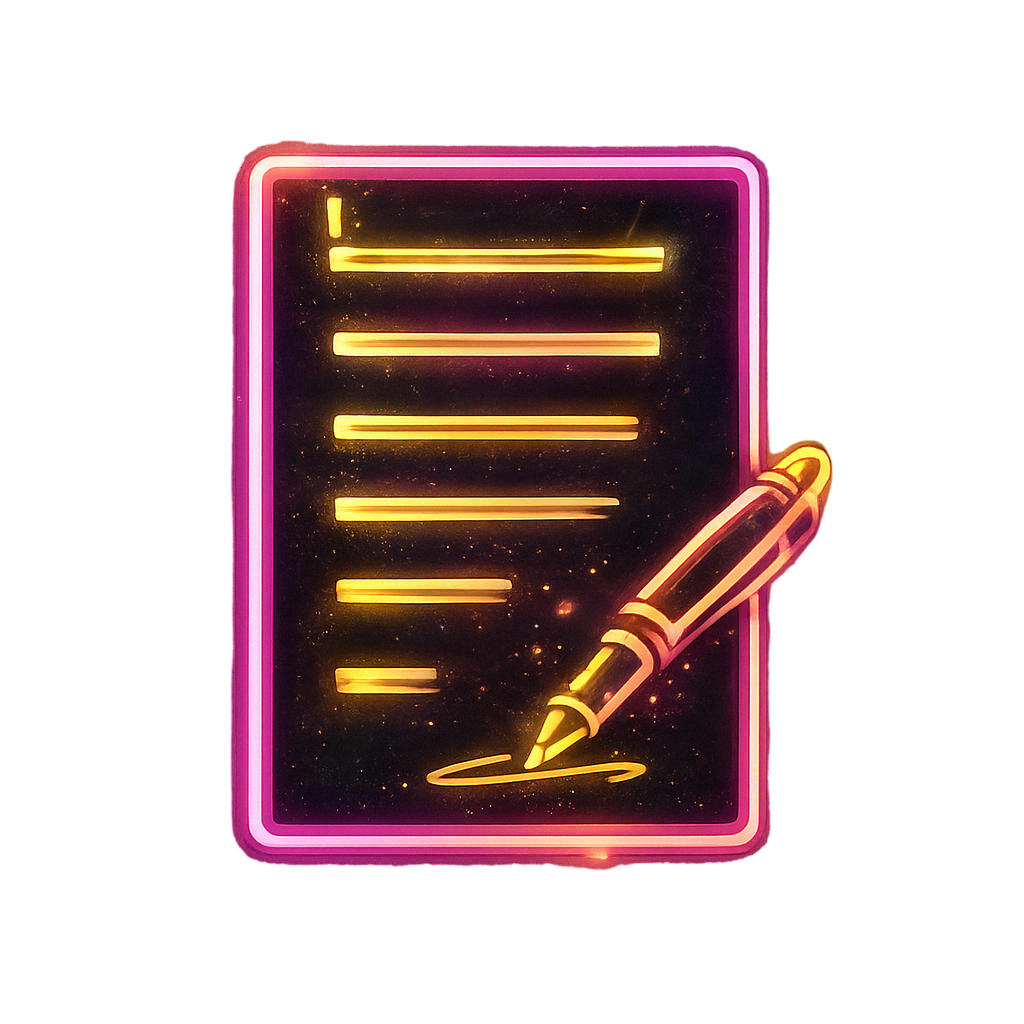
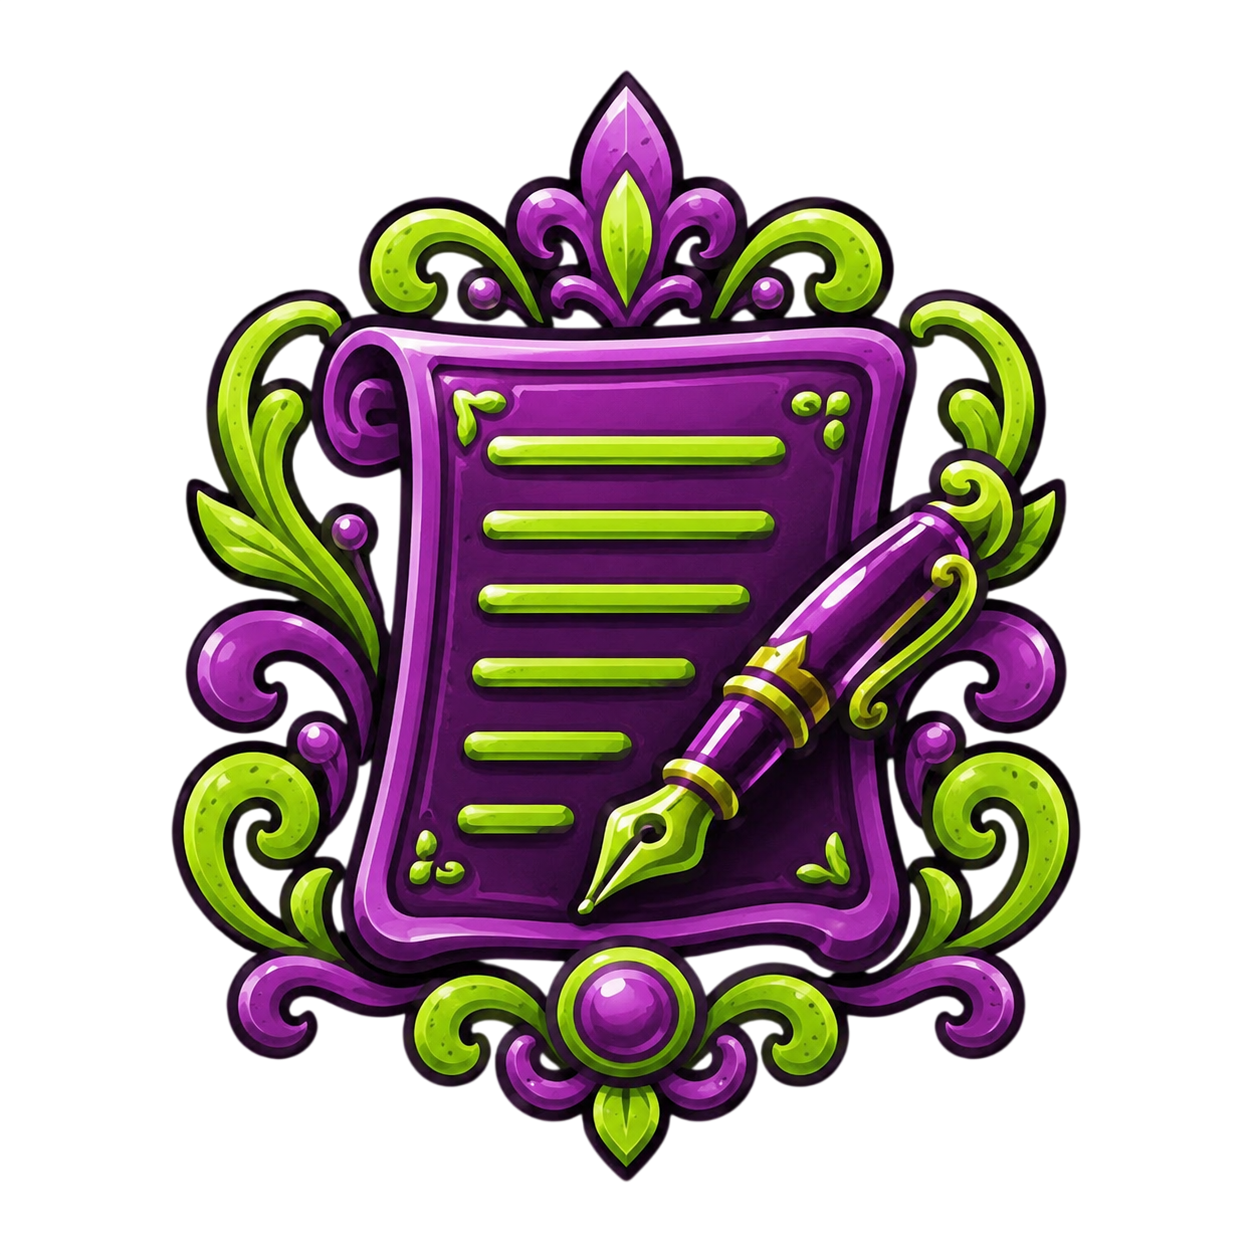
small fixes

diff --git a/src/blocks/ActivitiesDetailGrid/Component.tsx b/src/blocks/ActivitiesDetailGrid/Component.tsx
@@ -189,6 +189,29 @@ const getColumnAwareImagePosition = (
 const getRowsForCardCount = (cardCount: number, columns: number) =>
   Math.max(1, Math.ceil(cardCount / Math.max(columns, 1)))
 
+const activityDescriptionMaxCharacters = 80
+
+const truncateActivityDescription = (description: string) => {
+  const characters = Array.from(description)
+
+  if (characters.length <= activityDescriptionMaxCharacters) return description
+
+  return `${characters.slice(0, activityDescriptionMaxCharacters).join('').trimEnd()}...`
+}
+
+const getActivityTitleFitStyle = (title: string): React.CSSProperties | undefined => {
+  const longestWordLength = title
+    .split(/\s+/)
+    .reduce((longest, word) => Math.max(longest, Array.from(word).length), 0)
+
+  if (longestWordLength < 13) return undefined
+
+  return {
+    fontSize: 'clamp(13px, 1.35vw, 18px)',
+    letterSpacing: '0.06em',
+  }
+}
+
 const StyledText: React.FC<{
   as?: 'h2' | 'h3' | 'p' | 'span'
   children: React.ReactNode
@@ -207,9 +230,19 @@ const StyledText: React.FC<{
     verticalScale: keyof typeof typographyVerticalScaleValues
   }
   prefix: string
+  preventInternalWordBreak?: boolean
   style?: React.CSSProperties
   styleConfig: TextStyle | null | undefined
-}> = ({ as: Tag = 'span', children, className, fallback, prefix, style, styleConfig }) => {
+}> = ({
+  as: Tag = 'span',
+  children,
+  className,
+  fallback,
+  prefix,
+  preventInternalWordBreak = false,
+  style,
+  styleConfig,
+}) => {
   const textTransform = styleConfig?.textTransform || fallback.textTransform
   const formattedChildren =
     typeof children === 'string' ? formatTextTransform(children, textTransform) : children
@@ -243,6 +276,14 @@ const StyledText: React.FC<{
           },
           prefix,
         ),
+        ...(preventInternalWordBreak
+          ? {
+              hyphens: 'none',
+              overflowWrap: 'normal',
+              textWrap: 'balance',
+              wordBreak: 'normal',
+            }
+          : {}),
         ...style,
       }}
     >
@@ -355,7 +396,9 @@ const ActivityCard: React.FC<{
           textTransform: 'uppercase',
           verticalScale: 'normal',
         }}
+        preventInternalWordBreak
         prefix={`activity-detail-${index}-title`}
+        style={getActivityTitleFitStyle(activity.title)}
         styleConfig={activity.titleStyle || sharedTitleStyle}
       >
         {activity.title}
@@ -364,7 +407,7 @@ const ActivityCard: React.FC<{
       {activity.description ? (
         <StyledText
           as="p"
-          className="activity-detail-card__description whitespace-pre-line"
+          className="whitespace-pre-line"
           fallback={{
             color: '#f7f0df',
             fontFamily: 'geistSans',
@@ -381,20 +424,22 @@ const ActivityCard: React.FC<{
           prefix={`activity-detail-${index}-description`}
           styleConfig={activity.descriptionStyle || sharedDescriptionStyle}
         >
-          {activity.description}
+          <span className="activity-detail-card__description-full-mobile">
+            {activity.description}
+          </span>
+          <span className="activity-detail-card__description-short">
+            {truncateActivityDescription(activity.description)}
+          </span>
         </StyledText>
       ) : null}
 
       {activity.details?.length ? (
-        <div className="activity-detail-card__details mt-4 flex flex-wrap gap-x-5 gap-y-2">
+        <div className="mt-4 flex flex-wrap gap-x-5 gap-y-2">
           {activity.details.map((detail, detailIndex) => {
             const icon = getMedia(detail.icon)
 
             return (
-              <div
-                className="activity-detail-card__detail flex items-center gap-1.5"
-                key={detail.id || detailIndex}
-              >
+              <div className="flex items-center gap-1.5" key={detail.id || detailIndex}>
                 {icon ? (
                   <span className="relative inline-flex size-4 shrink-0">
                     <Media

diff --git a/src/app/(frontend)/globals.css b/src/app/(frontend)/globals.css
@@ -3346,6 +3346,14 @@
     overflow: hidden;
   }
 
+  .activity-detail-card__description-full-mobile {
+    display: none;
+  }
+
+  .activity-detail-card__description-short {
+    display: inline;
+  }
+
   .activity-detail-card__content.vintage-surface {
     background: transparent;
     overflow: visible;
@@ -3452,37 +3460,6 @@
     );
   }
 
-  @media (width < 80rem) {
-    .activity-detail-card__description {
-      display: -webkit-box !important;
-      overflow: hidden;
-      -webkit-box-orient: vertical;
-      -webkit-line-clamp: 2;
-      line-clamp: 2;
-      white-space: normal !important;
-    }
-
-    .activity-detail-card__details {
-      margin-top: 0.75rem;
-      row-gap: 0.4rem;
-    }
-
-    .activity-detail-card__detail:nth-child(n + 3) {
-      display: none;
-    }
-  }
-
-  @media (width < 36rem) {
-    .activity-detail-card__description {
-      -webkit-line-clamp: 3;
-      line-clamp: 3;
-    }
-
-    .activity-detail-card__detail:nth-child(n + 2) {
-      display: none;
-    }
-  }
-
   .torn-grid--generated {
     /* Kept as a compatibility class for existing rendered markup. */
   }
@@ -3542,9 +3519,17 @@
     }
 
     .activity-detail-card__media {
-      aspect-ratio: 16 / 10;
-      min-height: clamp(12rem, 58vw, 18rem);
+      aspect-ratio: 16 / 9;
+      min-height: clamp(11rem, 52vw, 16.5rem);
       order: 1 !important;
+    }
+
+    .activity-detail-card__description-full-mobile {
+      display: inline;
+    }
+
+    .activity-detail-card__description-short {
+      display: none;
     }
 
     .activity-detail-card__content {